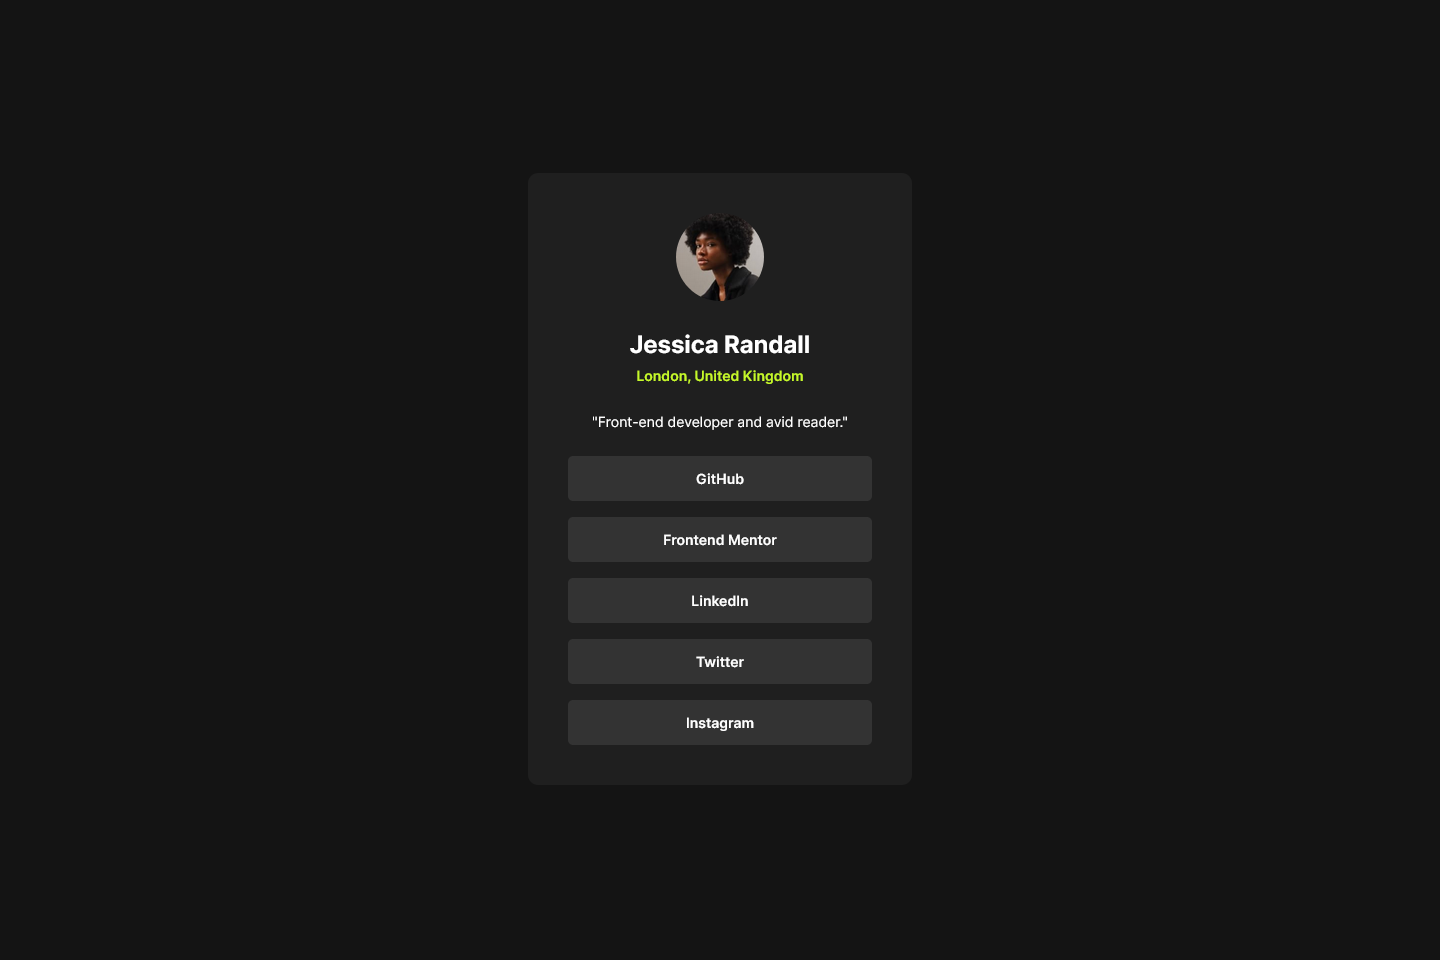
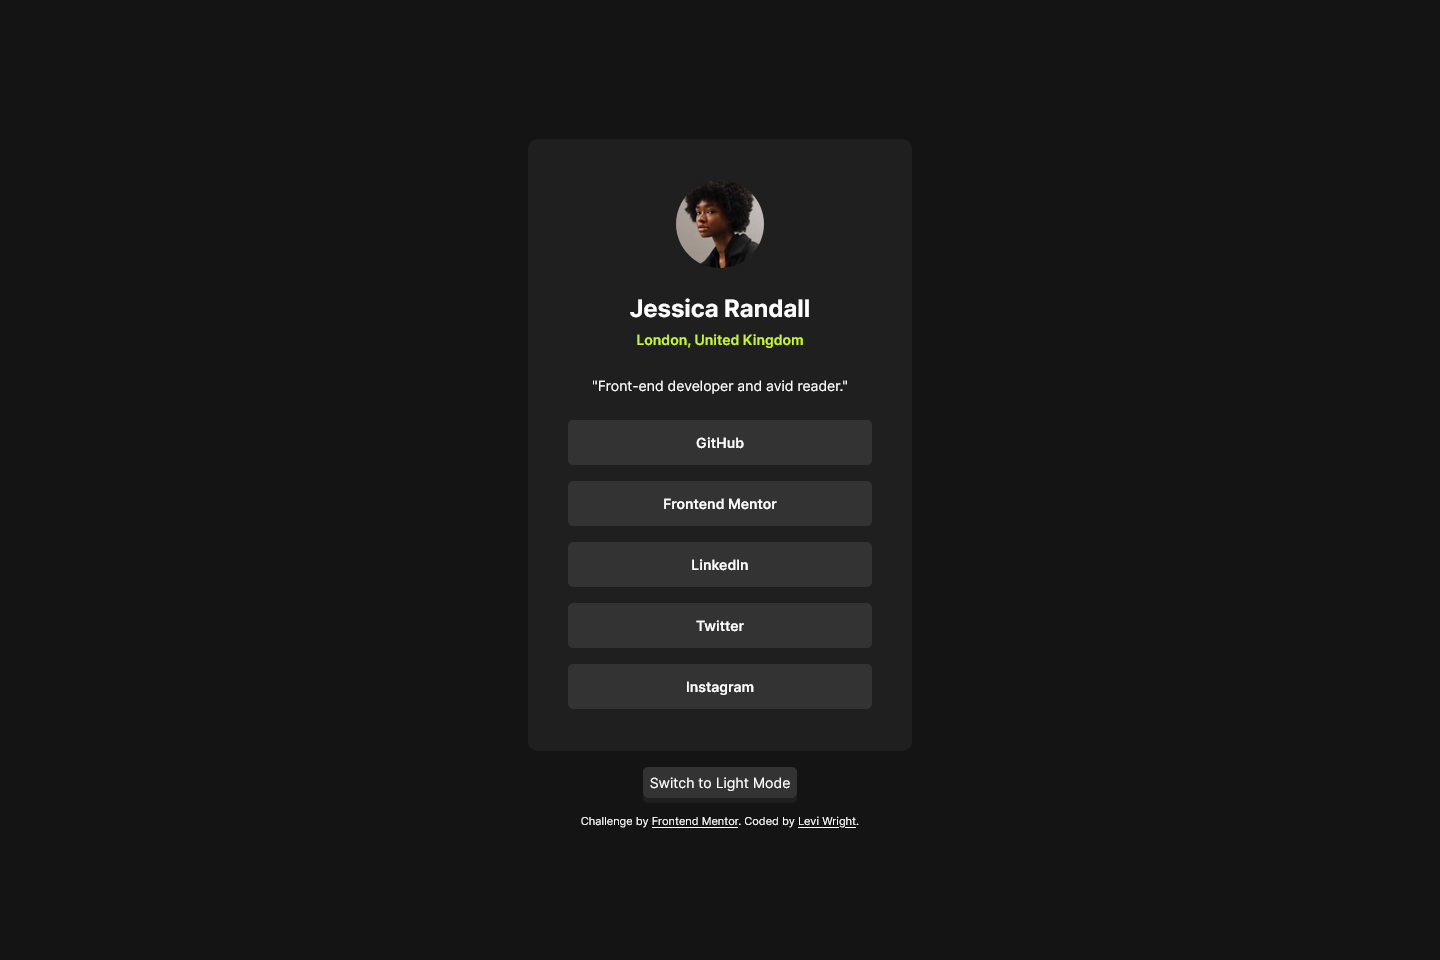
added modern css reset and button for theme switching

diff --git a/css/compiled_style.css b/css/compiled_style.css
@@ -19,6 +19,11 @@
   --white: hsl(0, 0%, 0%);
 }
 
+* {
+  box-sizing: border-box;
+  margin: 0;
+}
+
 html {
   height: 100%;
 }
@@ -30,22 +35,33 @@ body {
   display: flex;
   flex-direction: column;
   font: 400 0.875rem "Inter", sans-serif;
+  -webkit-font-smoothing: antialiased;
   height: fit-content;
   justify-content: center;
-  margin: 0;
   min-height: 100%;
   -moz-text-size-adjust: 100%;
   -webkit-text-size-adjust: 100%;
   text-size-adjust: 100%;
+  transition: background-color 0.5s linear;
 }
 
 a {
   color: var(--white);
 }
 
+button {
+  color: var(--white);
+  display: block;
+  font: inherit;
+  margin: 1rem auto 0;
+}
+
 img {
   border-radius: 50%;
+  display: block;
   height: 88px;
+  margin: auto;
+  max-width: 100%;
   width: 88px;
 }
 
@@ -58,10 +74,11 @@ li ~ li {
 
 p {
   margin: 0 0 1.625rem;
+  overflow-wrap: break-word;
+  transition: color 0.5s linear;
 }
 
 ul {
-  margin: 0;
   padding-left: 0;
 }
 
@@ -93,15 +110,15 @@ ul {
   align-items: center;
   background-color: var(--grey-800);
   border-radius: 10px;
-  box-sizing: border-box;
   display: flex;
   flex-direction: column;
   height: clamp(36.25rem, 70vh, 38.25rem);
   justify-content: center;
-  margin-top: 2.75rem;
+  margin-top: 1.4rem;
   max-width: 100%;
   padding: 24px;
   text-align: center;
+  transition: background-color 0.5s linear;
   width: clamp(20.438rem, 80vw, 24rem);
 }
 
@@ -112,11 +129,13 @@ ul {
   font-weight: 600;
   padding: 14px 0;
   text-decoration: none;
+  transition: background-color 0.5s linear, color 0.5s linear;
   width: 100%;
 }
 .card__link:hover, .card__link:focus, .card__link:active {
   background-color: var(--green);
   color: var(--grey-900);
+  transition: none;
 }
 
 .card__links_container {
@@ -135,12 +154,34 @@ ul {
   margin: 1.625rem 0 0;
 }
 
+.button {
+  background-color: var(--grey-700);
+  border: none;
+  border-radius: 5px;
+  box-shadow: 0 0.313rem var(--grey-800);
+  cursor: pointer;
+  padding: 7px;
+}
+.button:hover, .button:active {
+  background-color: var(--green);
+  color: var(--grey-900);
+}
+.button:active {
+  box-shadow: none;
+  transform: translateY(0.313rem);
+}
+
 .attribution {
   font-size: 0.688rem;
   margin: 1rem 0;
+  transition: color 0.5s linear;
+}
+.attribution a {
+  transition: color 0.5s linear;
 }
 .attribution a:hover, .attribution a:focus, .attribution a:active {
   color: var(--green);
+  transition: none;
 }
 
 /*# sourceMappingURL=compiled_style.css.map */

diff --git a/scss/_reset.scss b/scss/_reset.scss
@@ -1,3 +1,8 @@
+* {
+    box-sizing: border-box;
+    margin: 0;
+}
+
 html {
     height: 100%;
 }
@@ -9,22 +14,33 @@ body {
     display: flex;
     flex-direction: column;
     font: 400 0.875rem $font-stack;
+    -webkit-font-smoothing: antialiased;
     height: fit-content;
     justify-content: center;
-    margin: 0;
     min-height: 100%;
     -moz-text-size-adjust: 100%;
     -webkit-text-size-adjust: 100%;
     text-size-adjust: 100%;
+    transition: background-color 0.5s linear;
 }
 
 a {
     color: var(--white);
 }
 
+button {
+    color: var(--white);
+    display: block;
+    font: inherit;
+    margin: 1rem auto 0;
+}
+
 img {
     border-radius: 50%;
+    display: block;
     height: 88px;
+    margin: auto;
+    max-width: 100%;
     width: 88px;
 }
 
@@ -38,10 +54,11 @@ li {
 
 p {
     margin: 0 0 1.625rem;
+    overflow-wrap: break-word;
+    transition: color 0.5s linear;
 }
 
 ul {
-    margin: 0;
     padding-left: 0;
 }
 

diff --git a/script.js b/script.js
@@ -1,11 +1,23 @@
 // Clicking the profile image changes the page color
 const themeSwitcher = document.getElementById("theme-switcher");
 
-function switchTheme() {
+function determineNewTheme() {
     const currentTheme = document.documentElement.getAttribute('data-theme');
     const newTheme = currentTheme === 'light' ? 'dark' : 'light';
+
+    return newTheme;
+}
+
+function switchToNewButtonText(newTheme) {
+    const newButtonText = newTheme === 'light' ? 'Switch to Dark Mode' : 'Switch to Light Mode';
+    themeSwitcher.innerHTML = newButtonText;
+}
+
+function switchToNewTheme() {
+    const newTheme = determineNewTheme();
+    switchToNewButtonText(newTheme);
     document.documentElement.setAttribute('data-theme', newTheme);
 }
 
 // Event Listener
-themeSwitcher.addEventListener('click', switchTheme);
+themeSwitcher.addEventListener('click', switchToNewTheme);

diff --git a/index.html b/index.html
@@ -13,7 +13,7 @@
   <main>
     <div class="card">
       <div>
-        <img id="theme-switcher" src="assets/images/avatar-jessica.jpeg" alt="A profile picture of a woman named Jessica Randall." />
+        <img src="assets/images/avatar-jessica.jpeg" alt="A profile picture of a woman named Jessica Randall." />
         <p class="card__name">Jessica Randall</p>
         <p class="card__location">London, United Kingdom</p>
         <p>"Front-end developer and avid reader."</p>
@@ -38,6 +38,7 @@
         </ul>
       </div>
     </div>
+    <button class="button" id="theme-switcher" type="button">Switch to Light Mode</button>
   </main>
   <footer class="attribution">
     Challenge by <a rel="noreferrer" href="https://www.frontendmentor.io" target="_blank" title="Frontend Mentor Home Page"><span class="sr-only">(Opens in a new tab)</span>Frontend Mentor</a>. 

diff --git a/scss/_card.scss b/scss/_card.scss
@@ -2,15 +2,15 @@
     align-items: center;
     background-color: var(--grey-800);
     border-radius: 10px;
-    box-sizing: border-box;
     display: flex;
     flex-direction: column;
     height: clamp(36.25rem, 70vh, 38.25rem);
     justify-content: center;
-    margin-top: 2.75rem;
+    margin-top: 1.4rem;
     max-width: 100%;
     padding: 24px;
     text-align: center;
+    transition: background-color 0.5s linear;
     width: clamp(20.438rem, 80vw, 24rem);
 }
 
@@ -21,11 +21,13 @@
     font-weight: 600;
     padding: 14px 0;
     text-decoration: none;
+    transition: background-color 0.5s linear, color 0.5s linear;
     width: 100%;
 
     &:hover, &:focus, &:active {
         background-color: var(--green);
         color: var(--grey-900);
+        transition: none;
     }
 }
 

diff --git a/scss/_button.scss b/scss/_button.scss
@@ -1,0 +1,18 @@
+.button {
+    background-color: var(--grey-700);
+    border: none;
+    border-radius: 5px;
+    box-shadow: 0 0.313rem var(--grey-800);
+    cursor: pointer;
+    padding: 7px;
+
+    &:hover, &:active {
+        background-color: var(--green);
+        color: var(--grey-900);
+    }
+
+    &:active {
+        box-shadow: none;
+        transform: translateY(0.313rem);
+    }
+}

diff --git a/scss/_footer.scss b/scss/_footer.scss
@@ -1,10 +1,14 @@
 .attribution { 
     font-size: 0.688rem;
     margin: 1rem 0;
+    transition: color 0.5s linear;
 
     a {
+        transition: color 0.5s linear;
+
         &:hover, &:focus, &:active {
             color: var(--green); 
+            transition: none;
         }
     }
 }

diff --git a/scss/main.scss b/scss/main.scss
@@ -9,4 +9,5 @@
 @import 'reset';
 @import 'screen-reader-only';
 @import 'card';
+@import 'button';
 @import 'footer';
